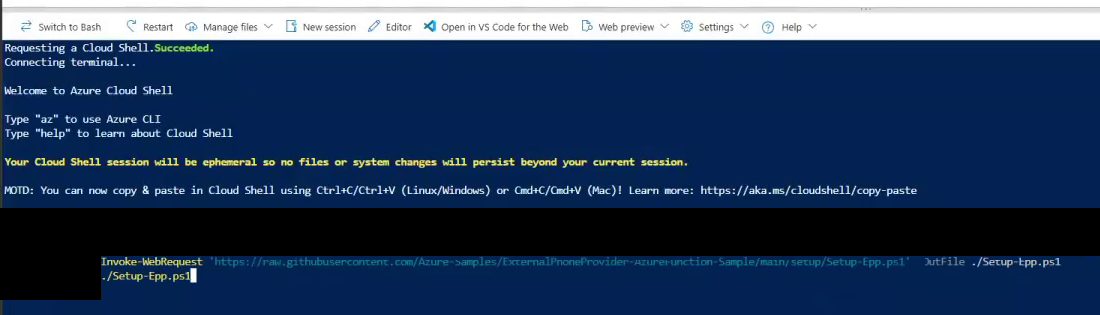
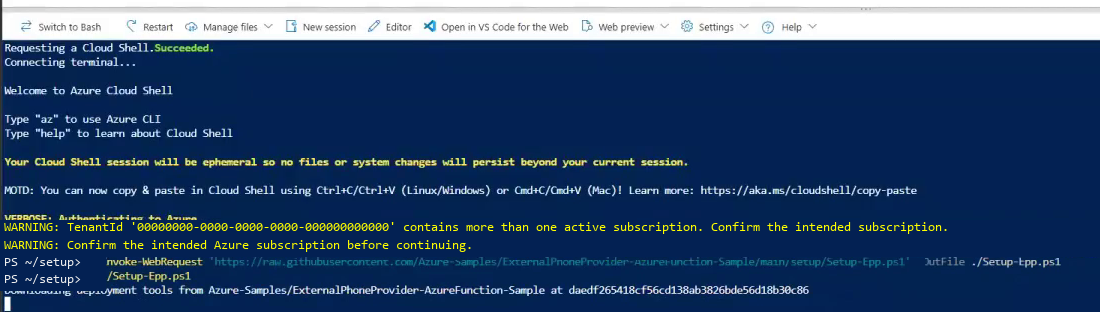
docs: improve Cloud Shell screenshot crops
Copilot-Session: 4287dddb-69ba-40d9-81da-80365f632af1

diff --git a/docs/GETTING-STARTED.md b/docs/GETTING-STARTED.md
@@ -94,7 +94,7 @@ Review the downloaded script, then run it:
 
 ![Azure Cloud Shell in PowerShell mode downloading and starting the setup script](images/onboarding/cloud-shell-run-setup.png)
 
-*Cloud Shell account and directory details are hidden. Review the downloaded script before running it.*
+*The tenant ID and shell path are illustrative replacements. Review the downloaded script before running it.*
 
 On a shared workstation, use `.\Setup-Epp.ps1 -ForceAuthentication` for a fresh sign-in.
 
@@ -109,8 +109,8 @@ Select the tenant, subscription, application **client ID**, and region. Then cho
 
 ![Azure Cloud Shell prompts for region, tenant scope, platform, hosting plan, and prerequisites](images/onboarding/cloud-shell-choose-options.png)
 
-*The example selections illustrate the prompt sequence; provider-specific confirmation and the
-resource prefix are hidden.*
+*Provider-specific prompts are omitted from this focused crop. The selections and resource prefix
+are illustrative.*
 
 Complete required sign-in, MFA, or administrator consent. Resolve preflight errors before approval.
 
@@ -133,10 +133,10 @@ identifies the resources, endpoint, app, and encryption key. No private key is d
 Cloud Shell sessions are ephemeral, so securely download or otherwise retain the private
 `epp-output` deployment summary and public certificate before closing the session.
 
-![Azure Cloud Shell deployment completion summary with private deployment values hidden](images/onboarding/cloud-shell-deployment-complete.png)
+![Azure Cloud Shell deployment completion summary listing created resource types and next steps](images/onboarding/cloud-shell-deployment-complete.png)
 
-*The completion summary identifies the resources and next steps. Resource names, identifiers,
-paths, certificate details, endpoint values, and provider-specific credential labels are hidden.*
+*Resource names, the endpoint, and the output path are illustrative replacements. An actual
+deployment summary contains private values and must remain private.*
 
 Setup verifies the private-key reference and **Easy Auth** before opening public access. Keep
 Easy Auth enabled. If setup fails, use the
